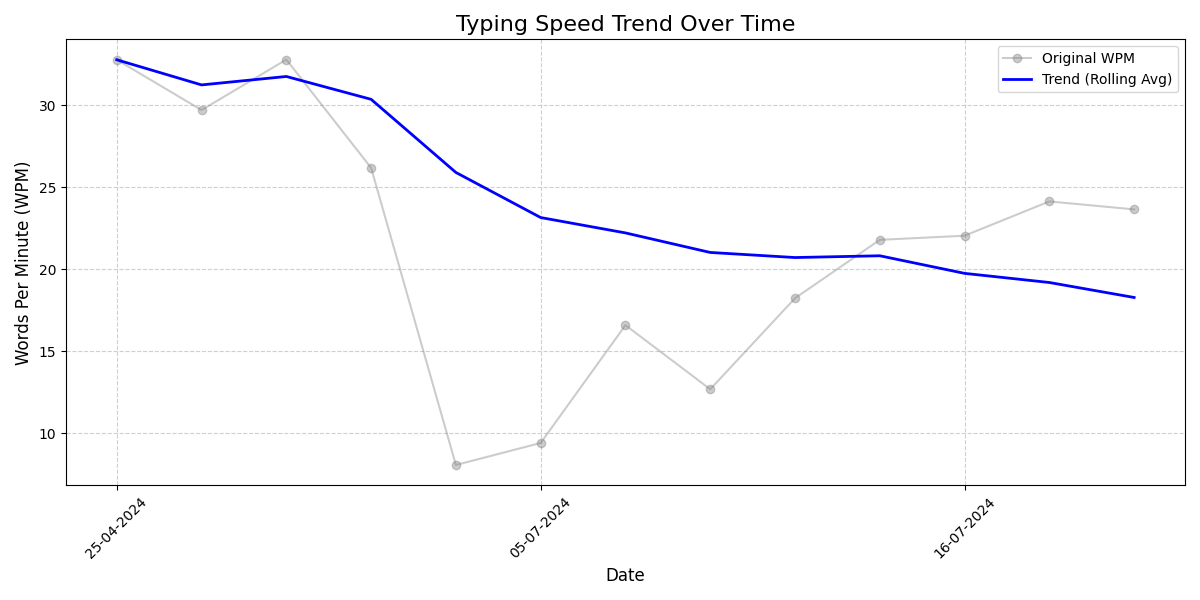
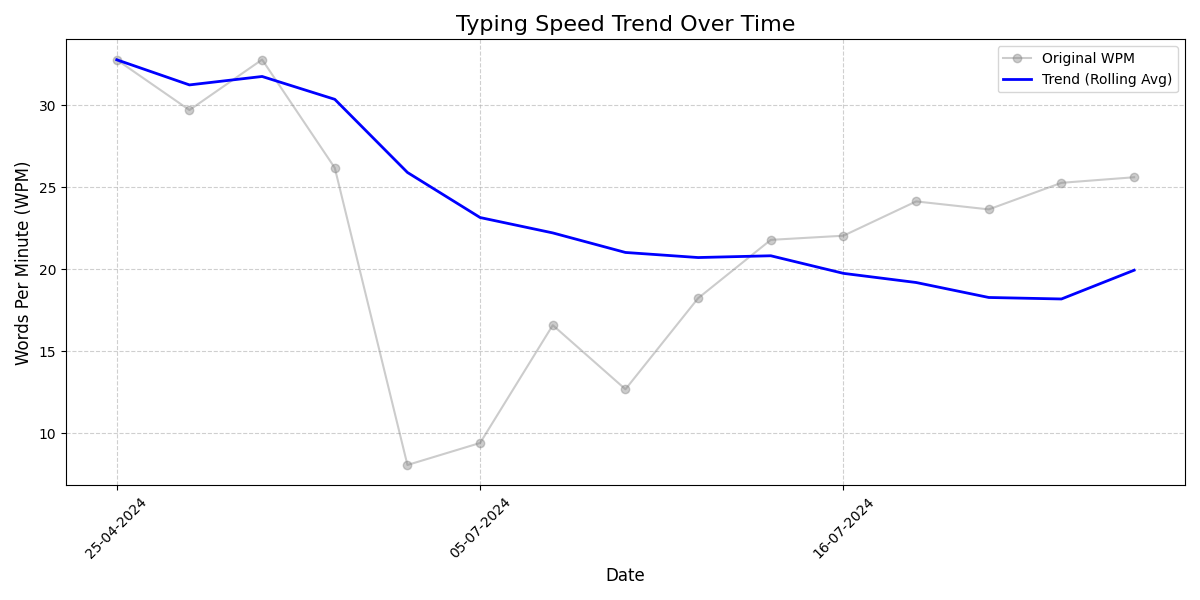
Update README with new stats (28/11/2024 18:31)

diff --git a/README.md b/README.md
@@ -4,16 +4,16 @@
 
 
         
-## Typing History Stats (Last Updated: 27/11/2024 21:15)
+## Typing History Stats (Last Updated: 28/11/2024 18:31)
 
 | **Key Stats**               | **Overall Stats**       | **Last 10 Tests Stats**  |
 |--------------------------|-------------------------|--------------------------|
-| **Total Entries**        | 101           | 10                       |
-| **Average WPM**          | 20.42           | 23.66    |
-| **Average Accuracy**     | 88.37%          | 91.24%   |
-| **Max WPM**              | 35.98               | 27.59        |
-| **Min WPM**              | 2.4               | 20.6                        |
-| **Total Duration**       | 01:29:00        | 00:10:00                        |
+| **Total Entries**        | 121           | 10                       |
+| **Average WPM**          | 21.25           | 25.62    |
+| **Average Accuracy**     | 88.77%          | 90.47%   |
+| **Max WPM**              | 35.98               | 31.6        |
+| **Min WPM**              | 2.4               | 19.4                        |
+| **Total Duration**       | 01:49:00        | 00:10:00                        |
 
 
 ---
@@ -22,16 +22,16 @@
 
 | | WPM | Accuracy | Consistency | Mode | Date |
 | --- | --- | -------- | ----------- | ---- | --------- |
-| 1 | 25.4 | 89.31 | 59.37 | time 60 | 26-11-2024 17:22:51 |
-| 2 | 23.6 | 91.84 | 50.43 | time 60 | 26-11-2024 17:21:26 |
-| 3 | 21.0 | 82.93 | 53.85 | time 60 | 26-11-2024 17:20:21 |
-| 4 | 23.59 | 86.71 | 49.25 | time 60 | 26-11-2024 17:19:05 |
-| 5 | 21.2 | 87.67 | 56.7 | time 60 | 26-11-2024 17:18:01 |
-| 6 | 25.59 | 92.81 | 59.89 | time 60 | 26-11-2024 17:16:16 |
-| 7 | 27.0 | 96.58 | 52.4 | time 60 | 26-11-2024 17:15:08 |
-| 8 | 27.59 | 97.26 | 54.81 | time 60 | 26-11-2024 17:14:02 |
-| 9 | 20.6 | 90.7 | 44.64 | time 60 | 26-11-2024 17:12:57 |
-| 10 | 21.0 | 96.61 | 40.92 | time 60 | 26-11-2024 17:11:50 |
+| 1 | 24.59 | 89.61 | 47.22 | time 60 | 28-11-2024 13:08:00 |
+| 2 | 26.4 | 94.9 | 55.87 | time 60 | 28-11-2024 13:06:49 |
+| 3 | 22.0 | 80.12 | 63.31 | time 60 | 28-11-2024 13:05:09 |
+| 4 | 24.2 | 89.24 | 52.06 | time 60 | 28-11-2024 13:03:26 |
+| 5 | 19.4 | 80.25 | 57.11 | time 60 | 28-11-2024 13:00:30 |
+| 6 | 23.2 | 90.0 | 64.0 | time 60 | 28-11-2024 12:59:19 |
+| 7 | 31.0 | 97.58 | 64.49 | time 60 | 28-11-2024 12:57:05 |
+| 8 | 30.0 | 93.64 | 63.59 | time 60 | 28-11-2024 12:55:59 |
+| 9 | 31.6 | 96.99 | 60.78 | time 60 | 28-11-2024 12:52:47 |
+| 10 | 23.8 | 92.41 | 50.96 | time 60 | 28-11-2024 12:51:33 |
 
 
  --- 
@@ -44,12 +44,12 @@
 | 2 | 32.8 | 92.55 | 58.23 | time 30 | 02-07-2024 08:20:14 |
 | 3 | 32.79 | 100.0 | 61.15 | time 30 | 25-04-2024 20:42:56 |
 | 4 | 32.38 | 96.55 | 57.01 | time 30 | 01-07-2024 12:57:07 |
-| 5 | 30.78 | 95.51 | 61.6 | time 30 | 03-07-2024 11:15:24 |
-| 6 | 29.99 | 88.64 | 64.87 | time 30 | 03-07-2024 11:12:37 |
-| 7 | 29.0 | 96.25 | 57.46 | time 60 | 12-07-2024 17:14:10 |
-| 8 | 27.6 | 92.07 | 55.31 | time 60 | 25-11-2024 17:24:40 |
-| 9 | 27.59 | 94.77 | 53.98 | time 60 | 12-07-2024 16:59:37 |
-| 10 | 27.59 | 97.26 | 54.81 | time 60 | 26-11-2024 17:14:02 |
+| 5 | 31.6 | 96.99 | 60.78 | time 60 | 28-11-2024 12:52:47 |
+| 6 | 31.0 | 97.58 | 64.49 | time 60 | 28-11-2024 12:57:05 |
+| 7 | 30.78 | 95.51 | 61.6 | time 30 | 03-07-2024 11:15:24 |
+| 8 | 30.0 | 93.64 | 63.59 | time 60 | 28-11-2024 12:55:59 |
+| 9 | 29.99 | 88.64 | 64.87 | time 30 | 03-07-2024 11:12:37 |
+| 10 | 29.4 | 97.45 | 58.7 | time 60 | 27-11-2024 08:29:05 |
 
 
  --- 
@@ -58,16 +58,16 @@
 
 | | Date | Tests | WPM | Acuracy | Consistency |
 | --- | --- | -------- | ----------- | ---- | --------- |
-| 1 | 2024-11-26 | 10 | 23.66 | 91.24 | 52.23 |
-| 2 | 2024-11-25 | 11 | 24.14 | 90.43 | 50.78 |
-| 3 | 2024-07-16 | 19 | 22.05 | 87.67 | 54.07 |
-| 4 | 2024-07-12 | 15 | 21.8 | 90.4 | 50.77 |
-| 5 | 2024-07-11 | 21 | 18.24 | 85.37 | 48.53 |
-| 6 | 2024-07-09 | 5 | 12.68 | 80.01 | 41.04 |
-| 7 | 2024-07-08 | 2 | 16.59 | 88.4 | 36.13 |
-| 8 | 2024-07-05 | 2 | 9.4 | 81.81 | 30.23 |
-| 9 | 2024-07-04 | 7 | 8.06 | 90.07 | 15.3 |
-| 10 | 2024-07-03 | 4 | 26.19 | 88.92 | 56.14 |
+| 1 | 2024-11-28 | 10 | 25.62 | 90.47 | 57.94 |
+| 2 | 2024-11-27 | 10 | 25.28 | 91.14 | 57.45 |
+| 3 | 2024-11-26 | 10 | 23.66 | 91.24 | 52.23 |
+| 4 | 2024-11-25 | 11 | 24.14 | 90.43 | 50.78 |
+| 5 | 2024-07-16 | 19 | 22.05 | 87.67 | 54.07 |
+| 6 | 2024-07-12 | 15 | 21.8 | 90.4 | 50.77 |
+| 7 | 2024-07-11 | 21 | 18.24 | 85.37 | 48.53 |
+| 8 | 2024-07-09 | 5 | 12.68 | 80.01 | 41.04 |
+| 9 | 2024-07-08 | 2 | 16.59 | 88.4 | 36.13 |
+| 10 | 2024-07-05 | 2 | 9.4 | 81.81 | 30.23 |
 
 
  --- 
@@ -76,11 +76,13 @@
 
 | | Date | Tests | WPM | Acuracy | Consistency |
 | --- | --- | -------- | ----------- | ---- | --------- |
-| 1 | 2024-11-25 | 11 | 24.14 | 90.43 | 50.78 |
-| 2 | 2024-11-26 | 10 | 23.66 | 91.24 | 52.23 |
-| 3 | 2024-07-16 | 19 | 22.05 | 87.67 | 54.07 |
-| 4 | 2024-07-12 | 15 | 21.8 | 90.4 | 50.77 |
-| 5 | 2024-07-11 | 21 | 18.24 | 85.37 | 48.53 |
+| 1 | 2024-11-28 | 10 | 25.62 | 90.47 | 57.94 |
+| 2 | 2024-11-27 | 10 | 25.28 | 91.14 | 57.45 |
+| 3 | 2024-11-25 | 11 | 24.14 | 90.43 | 50.78 |
+| 4 | 2024-11-26 | 10 | 23.66 | 91.24 | 52.23 |
+| 5 | 2024-07-16 | 19 | 22.05 | 87.67 | 54.07 |
+| 6 | 2024-07-12 | 15 | 21.8 | 90.4 | 50.77 |
+| 7 | 2024-07-11 | 21 | 18.24 | 85.37 | 48.53 |
 
 
  --- 
